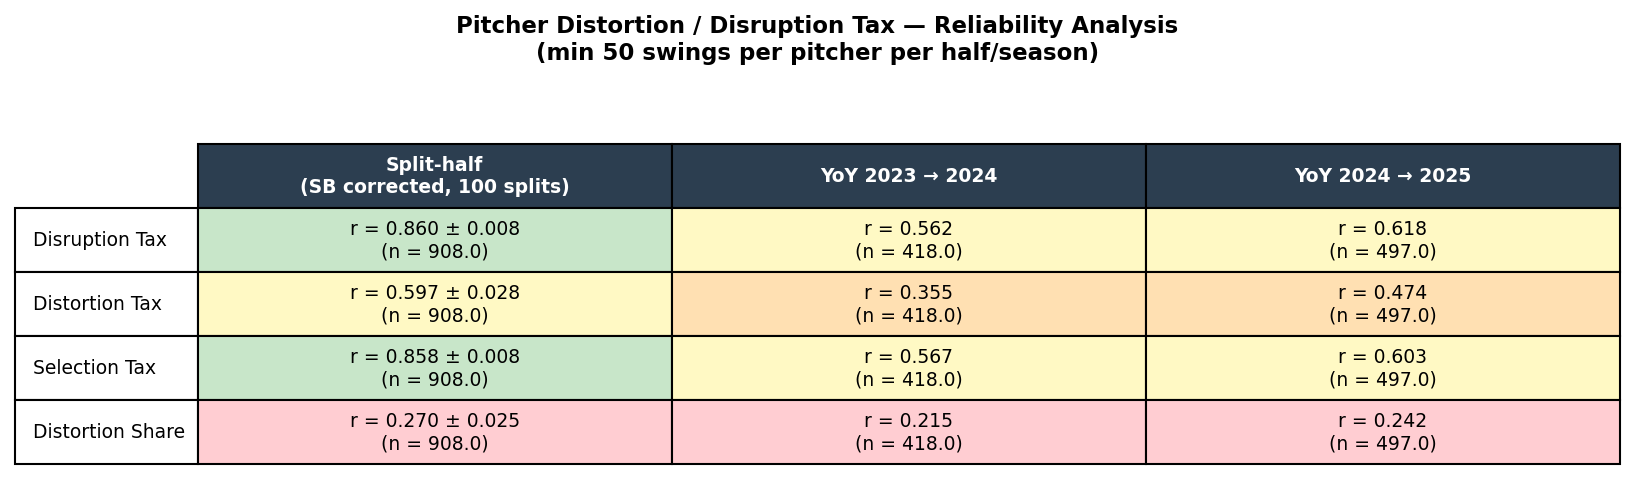
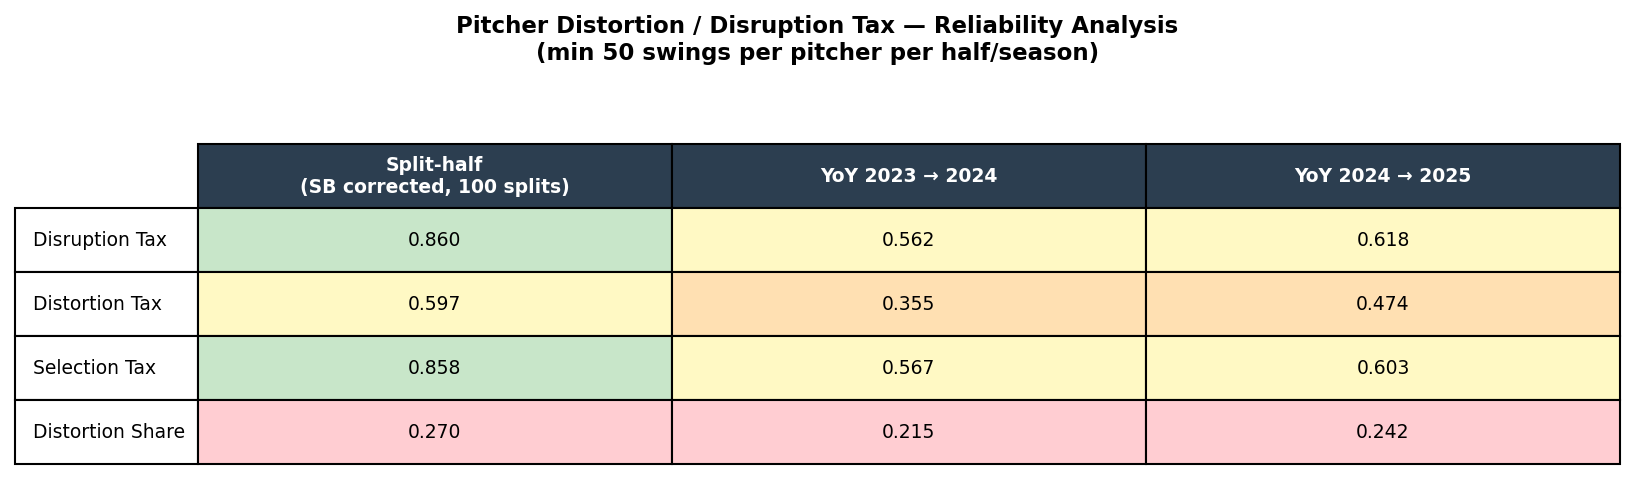
auto: results/figures/07d_fixed_effects.csv, results/figures/07d_fixed_effects.png, results/figures/08_reliability.csv (+3 more)

diff --git a/results_scripts/07_intention_diagnostics.py b/results_scripts/07_intention_diagnostics.py
@@ -169,28 +169,39 @@ def _add_n_labels(ax, df, group_col, order):
 
 # ── Figure 4: Fixed effects summary table ─────────────────────────────────────
 
-# Display names for Bambi's posterior variable names → readable labels
-_PARAM_LABELS = {
-    "Intercept":                        "Intercept",
-    "scale(balls)":                     "Balls (z)",
-    "scale(strikes)":                   "Strikes (z)",
-    "scale(plate_x_bat)":               "Plate X batter (z)",
-    "scale(plate_z)":                   "Plate Z (z)",
-    "scale(plate_z_sq)":                "Plate Z² (z)",
-    "scale(offset_y_ms)":               "Timing (z)",
-    "pitcher_throws_L":                 "Pitcher LHP",
-    "pitcher_throws_L:scale(plate_x_bat)": "LHP × Plate X",
+# Canonical row order and display labels
+_PARAM_ORDER = [
+    "Intercept",
+    "scale(balls)",
+    "scale(strikes)",
+    "scale(plate_x_bat)",
+    "scale(plate_z)",
+    "scale(plate_z_sq)",
+    "scale(offset_y_ms)",
+    "pitcher_throws_L",
+    "pitcher_throws_L:scale(plate_x_bat)",
+]
+
+# Greek-letter labels for academic table
+_PARAM_GREEK = {
+    "Intercept":                            r"$\mu_0$",
+    "scale(balls)":                         r"$\beta^B$",
+    "scale(strikes)":                       r"$\beta^S$",
+    "scale(plate_x_bat)":                   r"$\beta^X$",
+    "scale(plate_z)":                       r"$\beta^Z$",
+    "scale(plate_z_sq)":                    r"$\beta^{Z^2}$",
+    "scale(offset_y_ms)":                   r"$\beta^T$",
+    "pitcher_throws_L":                     r"$\beta^L$",
+    "pitcher_throws_L:scale(plate_x_bat)":  r"$\beta^{LX}$",
 }
 
-# Canonical row order
-_PARAM_ORDER = list(_PARAM_LABELS.keys())
-
-_COL_LABELS = {
-    "vert_attack_angle":  "VAA (°)",
-    "horz_attack_angle":  "HAA (°)",
-    "swing_path_tilt":    "Tilt (°)",
-    "bat_speed":          "Bat Spd (mph)",
-    "swing_length":       "Swing Len (ft)",
+# Column group headers (no units — kept in sub-header context)
+_COL_GROUP = {
+    "vert_attack_angle":  "Vert. Attack Angle",
+    "horz_attack_angle":  "Horz. Attack Angle",
+    "swing_path_tilt":    "Swing Path Tilt",
+    "bat_speed":          "Bat Speed",
+    "swing_length":       "Swing Length",
 }
 
 _RE_SUFFIXES  = ("_sigma", "_offset")
@@ -202,7 +213,7 @@ _ANGULAR_ONLY = {
 
 
 def _extract_fixed_effects(idata):
-    """Pull posterior mean, SD, and 95% CI for every scalar fixed effect."""
+    """Pull posterior mean and 95% CI for every scalar fixed effect."""
     post = idata.posterior
     out  = {}
     for v in post.data_vars:
@@ -212,7 +223,6 @@ def _extract_fixed_effects(idata):
             draws = post[v].values.ravel()
             out[v] = {
                 "mean": float(draws.mean()),
-                "sd":   float(draws.std()),
                 "lo":   float(np.percentile(draws, 2.5)),
                 "hi":   float(np.percentile(draws, 97.5)),
             }
@@ -223,82 +233,112 @@ def plot_fixed_effects_table(
     model_path="models/intention_result.joblib",
     out="results/figures/07d_fixed_effects.png",
 ):
-    """Load Bambi idata from joblib, extract fixed-effect posteriors, render table."""
+    """Academic-style fixed-effects table: grouped column headers, Greek row labels,
+    separate Mean / Lower / Upper columns, horizontal rules only."""
     print(f"  Loading {model_path}...")
-    result = joblib.load(model_path)
-    idata_dict = result["idata"]   # {resp: InferenceData}
+    result    = joblib.load(model_path)
+    coefs     = {r: _extract_fixed_effects(result["idata"][r]) for r in RESPONSES}
 
-    # Build per-response coefficient dicts
-    coefs = {resp: _extract_fixed_effects(idata_dict[resp]) for resp in RESPONSES}
+    # ── Layout (all in inches) ────────────────────────────────────────────────
+    LABEL_W  = 1.5    # parameter label column
+    SUB_W    = 0.82   # each of Mean / Lower / Upper
+    ROW_H    = 0.30   # data row height
+    HDR_H    = 0.30   # each header tier height
+    MARG_L   = 0.08
+    MARG_R   = 0.08
+    MARG_T   = 0.12
+    MARG_B   = 0.12
+    N_SUB    = 3      # Mean, Lower, Upper
+    N_R      = len(RESPONSES)
+    N_P      = len(_PARAM_ORDER)
 
-    # Assemble cell text and colour
-    cell_text, cell_color = [], []
-    for param_key in _PARAM_ORDER:
-        row_text, row_color = [], []
-        for resp in RESPONSES:
-            is_ang = resp in ANGULAR
-            if param_key in _ANGULAR_ONLY and not is_ang:
-                row_text.append("—")
-                row_color.append("#f0f0f0")
-                continue
-            stats = coefs[resp].get(param_key)
-            if stats is None:
-                row_text.append("—")
-                row_color.append("#f0f0f0")
-                continue
-            # Significance: p≈0 when CI excludes 0
-            sig = "" if (stats["lo"] < 0 < stats["hi"]) else "*"
-            row_text.append(
-                f"{stats['mean']:+.3f}{sig}\n[{stats['lo']:.3f}, {stats['hi']:.3f}]"
-            )
-            if sig == "":
-                row_color.append("#ffffff")
-            elif stats["mean"] > 0:
-                row_color.append("#dff0d8")
-            else:
-                row_color.append("#fde8e8")
-        cell_text.append(row_text)
-        cell_color.append(row_color)
+    fig_w = MARG_L + LABEL_W + N_R * N_SUB * SUB_W + MARG_R
+    fig_h = MARG_T + 2 * HDR_H + N_P * ROW_H + MARG_B
 
-    row_labels = [_PARAM_LABELS[k] for k in _PARAM_ORDER]
-    col_labels  = [_COL_LABELS[r] for r in RESPONSES]
-    n_rows, n_cols = len(_PARAM_ORDER), len(RESPONSES)
-
-    fig, ax = plt.subplots(figsize=(13, 0.55 * n_rows + 1.8))
+    fig = plt.figure(figsize=(fig_w, fig_h))
+    ax  = fig.add_axes([0, 0, 1, 1])
+    ax.set_xlim(0, fig_w)
+    ax.set_ylim(0, fig_h)
     ax.axis("off")
-    fig.suptitle(
-        "Fixed Effects (Bambi ADVI posterior, 95% CI)\n"
-        "* 95% CI excludes 0   green = positive   red = negative   grey = n/a",
-        fontsize=10, fontweight="bold", y=1.01,
-    )
 
-    tbl = ax.table(
-        cellText=cell_text,
-        cellColours=cell_color,
-        rowLabels=row_labels,
-        colLabels=col_labels,
-        cellLoc="center",
-        loc="center",
-    )
-    tbl.auto_set_font_size(False)
-    tbl.set_fontsize(8.5)
-    tbl.scale(1, 2.2)
+    x0    = MARG_L
+    x1    = fig_w - MARG_R
+    y_top = fig_h - MARG_T
+    y_g   = y_top - HDR_H        # bottom of group-header row
+    y_s   = y_g   - HDR_H        # bottom of sub-header row = top of data
+    y_bot = MARG_B
 
-    for j in range(n_cols):
-        tbl[(0, j)].set_facecolor("#2c3e50")
-        tbl[(0, j)].get_text().set_color("white")
-        tbl[(0, j)].get_text().set_fontweight("bold")
+    def grp_x(j):   return x0 + LABEL_W + j * N_SUB * SUB_W
+    def sub_cx(j, k): return grp_x(j) + (k + 0.5) * SUB_W
 
-    fig.tight_layout()
-    fig.savefig(out, dpi=150, bbox_inches="tight")
+    lw_h = 0.9   # horizontal rule weight
+    lw_v = 0.5   # vertical divider weight
+
+    # Horizontal rules
+    ax.plot([x0, x1], [y_top, y_top], "k-", lw=lw_h)          # top
+    ax.plot([x0 + LABEL_W, x1], [y_g, y_g], "k-", lw=0.4)     # between header tiers
+    ax.plot([x0, x1], [y_s,   y_s],   "k-", lw=lw_h)          # below headers
+    ax.plot([x0, x1], [y_bot, y_bot], "k-", lw=lw_h)          # bottom
+
+    # Vertical dividers: after label col + between response groups + right edge
+    for xv in [x0 + LABEL_W] + [grp_x(j) for j in range(1, N_R)] + [x1]:
+        ax.plot([xv, xv], [y_bot, y_top], "k-", lw=lw_v)
+
+    # Group headers (response names, centered over 3 sub-cols)
+    for j, resp in enumerate(RESPONSES):
+        cx = grp_x(j) + 1.5 * SUB_W
+        cy = (y_top + y_g) / 2
+        ax.text(cx, cy, _COL_GROUP[resp],
+                ha="center", va="center", fontsize=8.5, fontfamily="serif")
+
+    # Sub-headers
+    ax.text(x0 + LABEL_W / 2, (y_g + y_s) / 2, "Parameter",
+            ha="center", va="center", fontsize=8, fontfamily="serif")
+    for j in range(N_R):
+        for k, lbl in enumerate(["Mean", "Lower", "Upper"]):
+            ax.text(sub_cx(j, k), (y_g + y_s) / 2, lbl,
+                    ha="center", va="center", fontsize=8, fontfamily="serif")
+
+    # Data rows
+    for i, param in enumerate(_PARAM_ORDER):
+        cy = y_s - (i + 0.5) * ROW_H
+        ax.text(x0 + LABEL_W / 2, cy, _PARAM_GREEK[param],
+                ha="center", va="center", fontsize=9, fontfamily="serif")
+        for j, resp in enumerate(RESPONSES):
+            is_ang = resp in ANGULAR
+            if param in _ANGULAR_ONLY and not is_ang:
+                for k in range(N_SUB):
+                    ax.text(sub_cx(j, k), cy, "—",
+                            ha="center", va="center", fontsize=8.5,
+                            color="#999999", fontfamily="serif")
+            else:
+                stats = coefs[resp].get(param)
+                if stats:
+                    for k, val in enumerate([stats["mean"], stats["lo"], stats["hi"]]):
+                        ax.text(sub_cx(j, k), cy, f"{val:.3f}",
+                                ha="center", va="center", fontsize=8.5,
+                                fontfamily="serif")
+
+    fig.savefig(out, dpi=150, bbox_inches="tight", facecolor="white")
     plt.close(fig)
 
-    # CSV dump for easy inspection
+    # CSV
     csv_path = out.replace(".png", ".csv")
-    rows_for_csv = []
-    for label, row in zip(row_labels, cell_text):
-        rows_for_csv.append([label] + row)
-    pd.DataFrame(rows_for_csv, columns=["Predictor"] + col_labels).to_csv(csv_path, index=False)
+    rows_csv = []
+    for param in _PARAM_ORDER:
+        row = {"Parameter": _PARAM_GREEK[param]}
+        for resp in RESPONSES:
+            is_ang = resp in ANGULAR
+            pfx = _COL_GROUP[resp]
+            if param in _ANGULAR_ONLY and not is_ang:
+                row[f"{pfx}_Mean"] = "—"; row[f"{pfx}_Lower"] = "—"; row[f"{pfx}_Upper"] = "—"
+            else:
+                s = coefs[resp].get(param, {})
+                row[f"{pfx}_Mean"]  = f"{s.get('mean', float('nan')):.3f}"
+                row[f"{pfx}_Lower"] = f"{s.get('lo',   float('nan')):.3f}"
+                row[f"{pfx}_Upper"] = f"{s.get('hi',   float('nan')):.3f}"
+        rows_csv.append(row)
+    pd.DataFrame(rows_csv).to_csv(csv_path, index=False)
 
     print(f"Saved {out}")
     print(f"Saved {csv_path}")

diff --git a/results_scripts/08_reliability.py b/results_scripts/08_reliability.py
@@ -113,26 +113,16 @@ def build_table(df):
         rows.append({
             "metric":       metric,
             "sh_r":         sh_r,
-            "sh_sd":        sh_sd,
-            "sh_n":         sh_n,
             "yoy_23_24_r":  yoy_23_24_r,
-            "yoy_23_24_n":  n_23_24,
             "yoy_24_25_r":  yoy_24_25_r,
-            "yoy_24_25_n":  n_24_25,
         })
     return pd.DataFrame(rows).set_index("metric")
 
 
 # ── Render table ───────────────────────────────────────────────────────────────
 
-def _fmt_r(r, n, sd=None):
-    if np.isnan(r):
-        return "—"
-    s = f"r = {r:.3f}"
-    if sd is not None:
-        s += f" ± {sd:.3f}"
-    s += f"\n(n = {n})"
-    return s
+def _fmt_r(r):
+    return "—" if np.isnan(r) else f"{r:.3f}"
 
 
 def _r_color(r):
@@ -163,9 +153,9 @@ def render_table(tbl, out="results/figures/08_reliability.png"):
 
     for metric, row in tbl.iterrows():
         cell_text.append([
-            _fmt_r(row["sh_r"],       row["sh_n"],      sd=row["sh_sd"]),
-            _fmt_r(row["yoy_23_24_r"], row["yoy_23_24_n"]),
-            _fmt_r(row["yoy_24_25_r"], row["yoy_24_25_n"]),
+            _fmt_r(row["sh_r"]),
+            _fmt_r(row["yoy_23_24_r"]),
+            _fmt_r(row["yoy_24_25_r"]),
         ])
         cell_color.append([
             _r_color(row["sh_r"]),